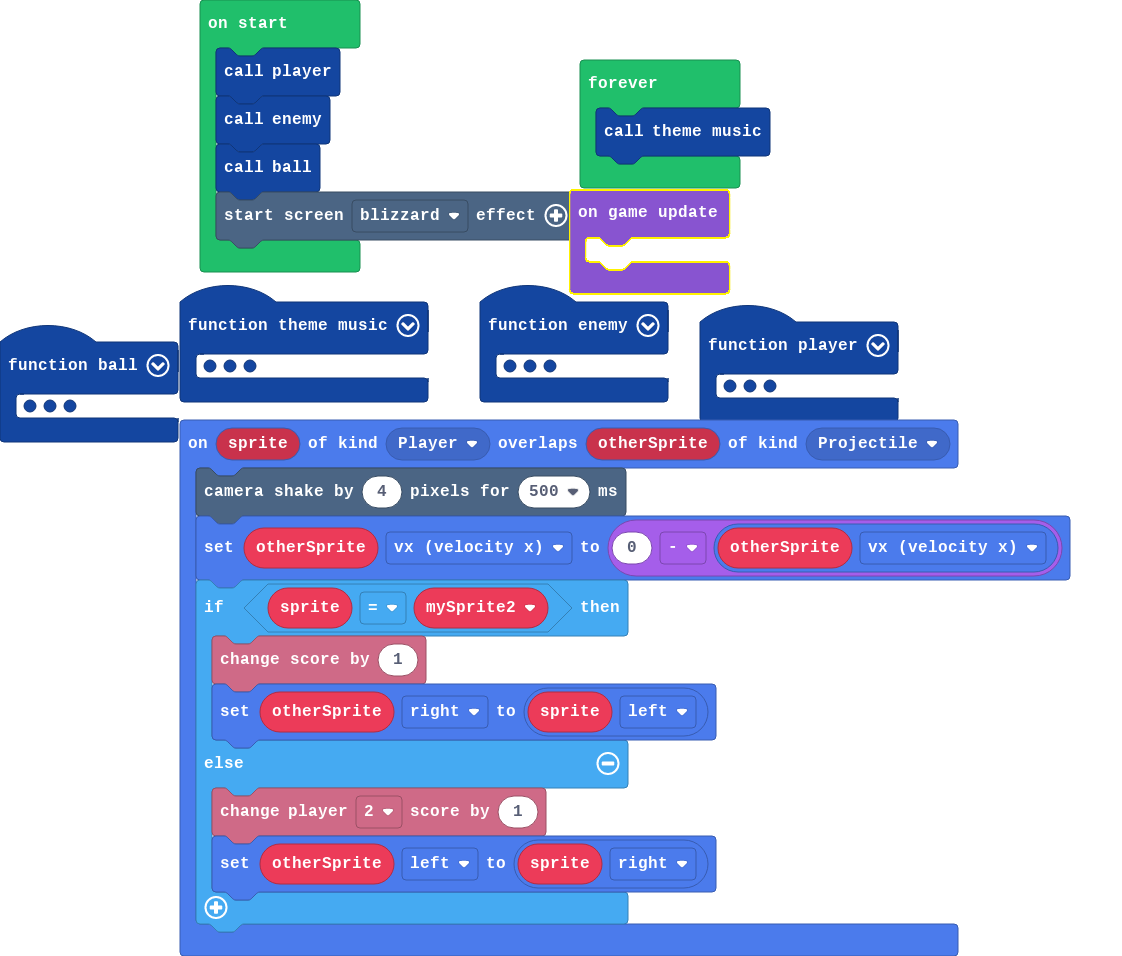
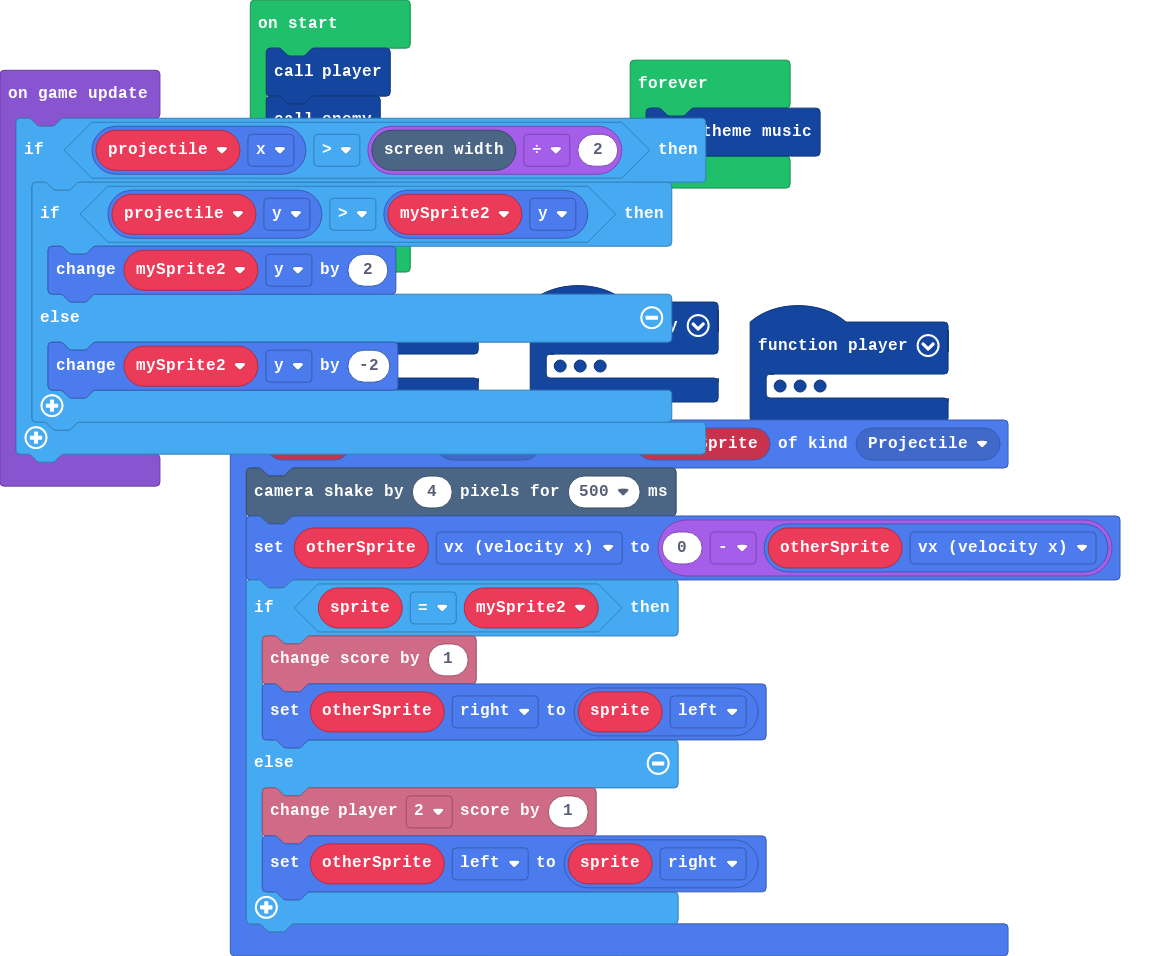
Update main.blocks, main.ts

diff --git a/main.ts b/main.ts
@@ -210,7 +210,13 @@ enemy()
 ball()
 effects.blizzard.startScreenEffect()
 game.onUpdate(function () {
-	
+    if (projectile.x > scene.screenWidth() / 2) {
+        if (projectile.y > mySprite2.y) {
+            mySprite2.y += 2
+        } else {
+            mySprite2.y += -2
+        }
+    }
 })
 forever(function () {
     theme_music()
